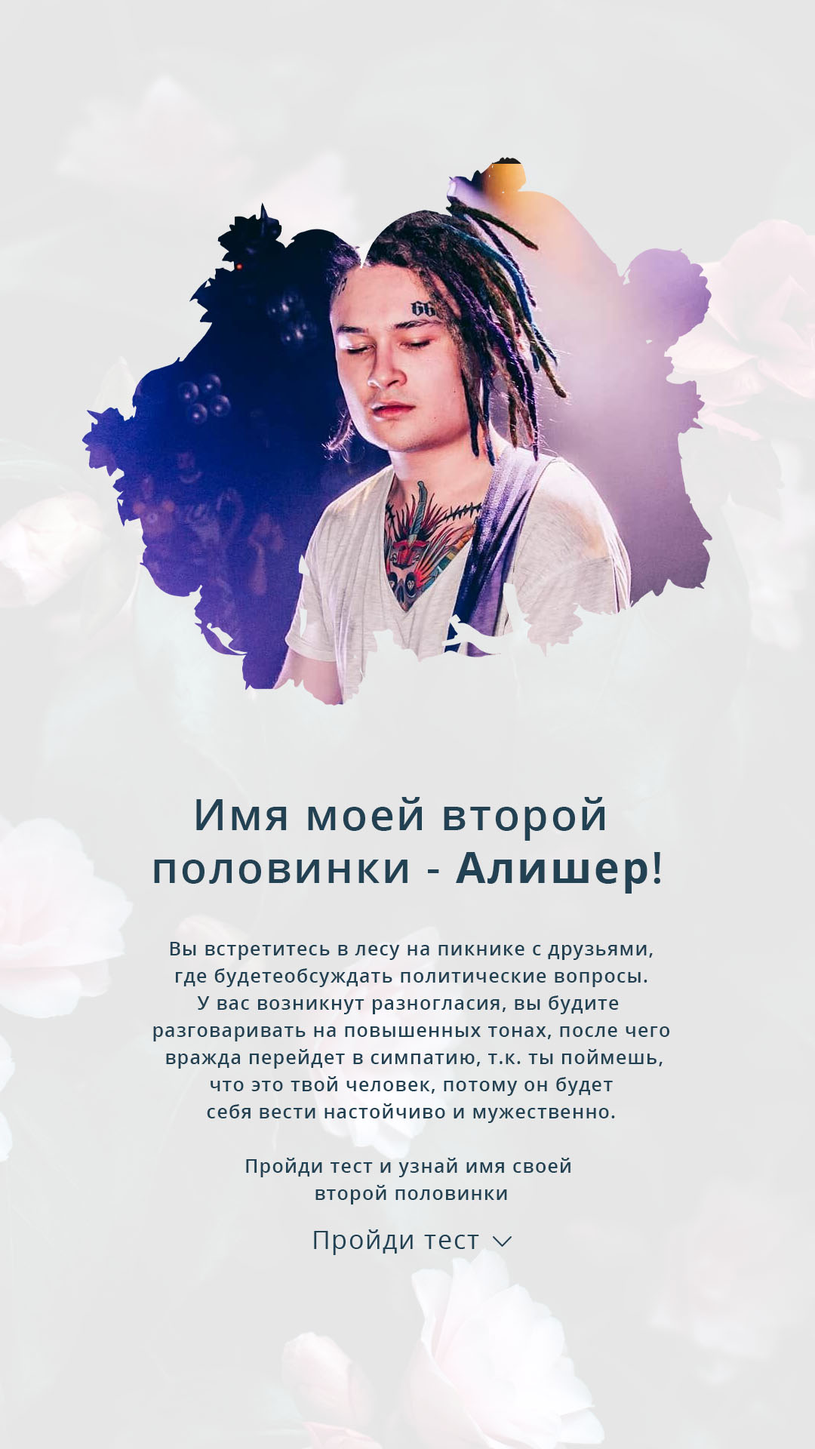
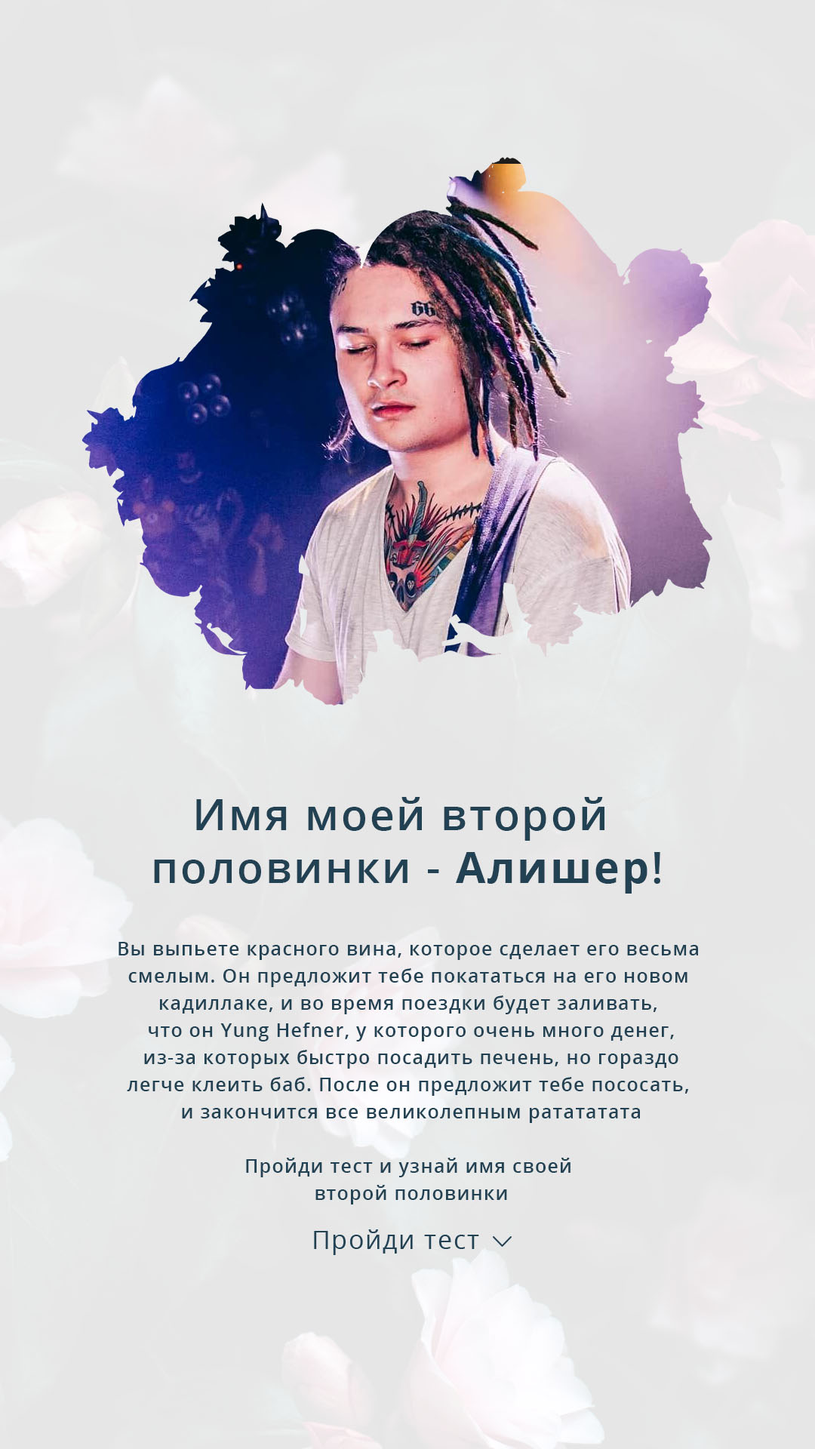
Updates

Changed region(s): [[0.1528, 0.625, 0.8556, 0.7812]]

diff --git a/static/js/main.f251b3ba.chunk.js b/static/js/main.f251b3ba.chunk.js
@@ -1,0 +1,2 @@
+(this["webpackJsonpmini-app"]=this["webpackJsonpmini-app"]||[]).push([[0],{108:function(e,t,a){e.exports=a.p+"static/media/2.1cb0b479.png"},109:function(e,t,a){e.exports=a.p+"static/media/3.79a9798c.png"},110:function(e,t,a){e.exports=a.p+"static/media/4.f338b19d.png"},111:function(e,t,a){e.exports=a.p+"static/media/5.77c213ab.png"},112:function(e,t,a){e.exports=a.p+"static/media/7.88c06081.png"},113:function(e,t,a){e.exports=a.p+"static/media/8.d15ea79e.png"},114:function(e,t,a){e.exports=a.p+"static/media/9.eaa9397a.png"},115:function(e,t,a){e.exports=a.p+"static/media/10.3b675a64.png"},116:function(e,t,a){e.exports=a.p+"static/media/1.b21a2ad8.png"},117:function(e,t,a){e.exports=a.p+"static/media/2.a05df0da.png"},118:function(e,t,a){e.exports=a.p+"static/media/3.ac7e4885.png"},119:function(e,t,a){e.exports=a.p+"static/media/4.008d50be.png"},120:function(e,t,a){e.exports=a.p+"static/media/5.93e093c6.png"},121:function(e,t,a){e.exports=a.p+"static/media/6.961bd0a5.png"},122:function(e,t,a){e.exports=a.p+"static/media/7.35e4d8bc.png"},123:function(e,t,a){e.exports=a.p+"static/media/8.e44cd32c.png"},124:function(e,t,a){e.exports=a.p+"static/media/9.ad8ff529.png"},125:function(e,t,a){e.exports=a.p+"static/media/10.704f9750.png"},126:function(e,t,a){e.exports=a.p+"static/media/11.1f82610f.png"},127:function(e,t,a){e.exports=a.p+"static/media/12.f4ac77f5.png"},128:function(e,t,a){e.exports=a.p+"static/media/13.ce20b29d.png"},129:function(e,t,a){e.exports=a.p+"static/media/14.f66d5e0e.png"},130:function(e,t,a){e.exports=a.p+"static/media/15.95fd2ea9.png"},131:function(e,t,a){e.exports=a.p+"static/media/start.94aeea7c.png"},213:function(e,t,a){e.exports=a(312)},291:function(e,t,a){},304:function(e,t,a){e.exports=a.p+"static/media/6.a72db5b7.png"},312:function(e,t,a){"use strict";a.r(t);a(214),a(240),a(242),a(243),a(245),a(246),a(247),a(248),a(249),a(250),a(251),a(252),a(254),a(255),a(256),a(257),a(258),a(259),a(260),a(261),a(262),a(263),a(265),a(266),a(267),a(268),a(269),a(270),a(271),a(272),a(273),a(274),a(275),a(276),a(277),a(278),a(279),a(280),a(281),a(282);var n=a(0),r=a.n(n),i=a(102),c=a.n(i),o=a(48),s=a(21),l=a.n(s),m=a(134),u=a.n(m),p=(a(290),a(291),a(33)),d=a.n(p),f=a(47),g=a(103),h=a(104),x=a(136),v=a(135),y=a(36),b=a(68),_=a.n(b),E=a(108),k=a.n(E),w=a(109),S=a.n(w),C=a(110),A=a.n(C),N=a(111),O=a.n(N),z=(a(304),a(112)),j=a.n(z),T=a(113),I=a.n(T),R=a(114),F=a.n(R),G=a(115),M=a.n(G),P=a(116),V=a.n(P),D=a(117),K=a.n(D),q=a(118),W=a.n(q),B=a(119),U=a.n(B),J=a(120),L=a.n(J),Y=a(121),H=a.n(Y),Q=a(122),Z=a.n(Q),X=a(123),$=a.n(X),ee=a(124),te=a.n(ee),ae=a(125),ne=a.n(ae),re=a(126),ie=a.n(re),ce=a(127),oe=a.n(ce),se=a(128),le=a.n(se),me=a(129),ue=a.n(me),pe=a(130),de=a.n(pe),fe=a(69),ge=a.n(fe),he=a(131),xe=a.n(he),ve=a(15),ye=a.n(ve),be=a(37),_e=a.n(be),Ee=a(70),ke=a.n(Ee),we=a(41),Se=a.n(we);Object.defineProperty(Object.prototype,"randElement",{value:function(){return this[Math.floor(Math.random()*this.length)]}});var Ce=function(e){Object(x.a)(a,e);var t=Object(v.a)(a);function a(e){var n;return Object(g.a)(this,a),(n=t.call(this,e)).state={step:0,gender:0,answer:0,selected_charaster:0,next_button_active:0,share_in_story:0},n.result_charasters={1:{image:V.a,name:"\u0414\u043e\u0440\u0430",desc:"\u041e\u043d\u0430 \u043f\u043e\u0448\u043b\u0435\u0442 \u0442\u0435\u0431\u044f \u043d\u0430 \u043d\u0435\u0431\u043e \u0437\u0430 \u0437\u0432\u0435\u0437\u0434\u043e\u0447\u043a\u043e\u0439, \u043f\u043e\u0442\u043e\u043c\u0443 \u0447\u0442\u043e \u0442\u044b \u0437\u0430\u0434\u043e\u043b\u0431\u0430\u043b \u0435\u0435 \u0438\u0433\u043d\u043e\u0440\u0438\u0442\u044c, \u0442\u0430\u043a \u043a\u0430\u043a \u0440\u0430\u0437\u0432\u043b\u0435\u043a\u0430\u0435\u0448\u044c\u0441\u044f \u0441 \u0435\u0435 \u043c\u043b\u0430\u0434\u0448\u0435\u0439 \u0441\u0435\u0441\u0442\u0440\u043e\u0439. (\u0410 \u043d\u0435\u0442, \u0442\u0432\u043e\u044f \u043f\u043e\u043b\u043e\u0432\u0438\u043d\u043a\u0430 \u0441\u0435\u0441\u0442\u0440\u0430 \u0414\u043e\u0440\u044b)."},2:{image:K.a,name:"\u041b\u0435\u0440\u0430",desc:"\u0423 \u0432\u0430\u0441 \u0441\u043b\u0443\u0447\u0438\u0442\u0441\u044f \u0431\u0435\u0437\u043e\u043f\u0430\u0441\u043d\u044b\u0439 \u0441\u0435\u043a\u0441, \u043d\u043e \u043a\u0430\u043f\u0435\u043b\u044c\u043a\u0430 \u0434\u043e\u0439\u0434\u0435\u0442 \u0434\u043e \u043f\u0440\u0435\u0434\u0435\u043b\u0430. \u041d\u0438 \u043e \u0447\u0435\u043c \u043d\u0435 \u0436\u0430\u043b\u0435\u0439 \u0438 \u043b\u044e\u0431\u0438 \u043f\u0440\u043e\u0441\u0442\u043e \u0442\u0430\u043a."},3:{image:W.a,name:"\u041f\u043e\u043b\u0438\u043d\u0430",desc:"\u041e\u043d\u0430 \u0431\u0443\u0434\u0435\u0442 \u0432\u0435\u0440\u0438\u0442\u044c, \u0447\u0442\u043e \u0433\u0434\u0435-\u0442\u043e \u0436\u0438\u0432\u0435\u0442 \u043b\u044e\u0431\u043e\u0432\u044c, \u0432\u0435\u0434\u044c \u043d\u0430\u0441 \u043c\u0438\u043b\u043b\u0438\u043e\u043d\u044b. \u041e\u043d\u0430 \u0443\u0432\u0438\u0434\u0438\u0442 \u043d\u0435\u0431\u043e \u0432 \u0442\u0432\u043e\u0438\u0445 \u0433\u043b\u0430\u0437\u0430\u0445, \u043d\u043e \u0442\u044b \u043d\u0435 \u0437\u0430\u0445\u043e\u0447\u0435\u0448\u044c \u043f\u0440\u044b\u0433\u0430\u0442\u044c \u0440\u0430\u0434\u0438 \u043d\u0435\u0435 \u0432\u044b\u0448\u0435 \u0433\u043e\u043b\u043e\u0432\u044b \u0438 \u043e\u043d\u0430 \u043d\u0435 \u0441\u0442\u0430\u043d\u0435\u0442 \u0442\u0435\u0431\u044f \u0431\u043e\u043b\u044c\u0448\u0435 \u0436\u0434\u0430\u0442\u044c. \u041e\u043d\u0430 \u043f\u043e\u0439\u043c\u0435\u0442, \u0447\u0442\u043e \u0432\u044b \u043d\u0435 \u043f\u0430\u0440\u0430, \u0432\u0435\u0434\u044c \u0432\u043e \u0432\u0441\u0435\u0445 \u0442\u0432\u043e\u0438\u0445 \u0441\u043b\u043e\u0432\u0430\u0445 \u0432\u043e\u0434\u0430."},4:{image:U.a,name:"\u041d\u0430\u0434\u0435\u0436\u0434\u0430",desc:"\u041f\u043e\u0441\u0442\u0443\u0447\u0438\u0442\u0441\u044f \u0432 \u0434\u043e\u043c \u043d\u043e\u0447\u044c \u043d\u0435\u0437\u0432\u0430\u043d\u0430\u044f, \u0432\u043e\u0442 \u043e\u043d\u0430 \u043b\u044e\u0431\u043e\u0432\u044c \u043e\u043a\u0430\u044f\u043d\u043d\u0430\u044f. \u0423 \u0446\u0435\u0440\u043a\u0432\u0438 \u0431\u0443\u0434\u0435\u0442 \u0441\u0442\u043e\u044f\u0442\u044c \u043a\u0430\u0440\u0435\u0442\u0430 \u0438 \u0442\u044b \u0443\u0432\u0438\u0434\u0438\u0448\u044c, \u043a\u0430\u043a \u043e\u043d\u0430 \u0431\u0443\u0434\u0435\u0442 \u0441\u043f\u0443\u0441\u043a\u0430\u0442\u044c \u0441 \u0433\u043e\u0440\u043e\u0447\u043a\u0438 \u043a\u0443\u0431\u0430\u0440\u0435\u043c, \u043f\u043e\u0442\u043e\u043c\u0443 \u0447\u0442\u043e \u043d\u0430\u043f\u0438\u043b\u0430\u0441\u044f \u043f\u044c\u044f\u043d\u0430 \u0438 \u043d\u0435 \u043c\u043e\u0436\u0435\u0442 \u0434\u043e\u0439\u0442\u0438 \u0434\u043e \u0434\u043e\u043c\u0430. \u0422\u044b \u0437\u0430\u0431\u0435\u0440\u0435\u0448\u044c \u0435\u0435 \u043a \u0441\u0435\u0431\u0435 \u043d\u0430 \u0431\u0435\u043b\u043e\u043c \u043a\u043e\u043d\u0435 \u0438 \u043d\u0430\u043a\u0443\u0440\u0438\u0448\u044c \u0434\u0443\u0440\u043c\u0430\u043d-\u0442\u0440\u0430\u0432\u043e\u0439."},5:{image:L.a,name:"\u041a\u043b\u0430\u0432\u0430",desc:"\u0422\u044b \u0441\u0442\u0430\u043d\u0435\u0448\u044c \u0434\u043b\u044f \u043d\u0435\u0435 \u043a\u0440\u0430\u0448\u0435\u043c \u0438 \u0437\u0430\u0435\u0439, \u043d\u043e \u0442\u0435\u0431\u0435 \u043f\u043e\u0445, \u0432\u0435\u0434\u044c \u0447\u0435\u043c \u043c\u0435\u043d\u044c\u0448\u0435 \u0431\u0430\u0431\u0443 \u043b\u044e\u0431\u0438\u0448\u044c, \u0431\u043e\u043b\u044c\u0448\u0435 \u043d\u0440\u0430\u0432\u0438\u0448\u044c\u0441\u044f \u0442\u044b \u0435\u0439. \u041e\u043d\u0430 \u0431\u0443\u0434\u0435\u0442 \u0434\u0443\u043c\u0430\u0442\u044c, \u0447\u0442\u043e \u0442\u044b \u0435\u0435 \u043f\u043e\u043b\u043e\u0432\u0438\u043d\u0430, \u043f\u043e\u0441\u043b\u0435 \u0447\u0435\u0433\u043e \u0432\u044b \u043d\u0430\u0433\u0440\u0435\u0448\u0438\u0442\u0435 \u0438 \u043d\u0430\u0447\u043d\u0435\u0442\u0435 \u0432\u0441\u0435 \u0437\u0430\u043d\u043e\u0432\u043e. \u041d\u043e \u043e\u043d\u0430 \u043f\u043e\u0439\u043c\u0435\u0442, \u0447\u0442\u043e \u0432\u043b\u044e\u0431\u0438\u043b\u0430\u0441\u044c \u0432 \u043c\u0443\u0434\u0430\u043a\u0430 \u0438 \u043f\u043e\u043a\u0438\u043d\u0435\u0442 \u0447\u0430\u0442."},6:{image:H.a,name:"\u041b\u0435\u0445\u0430",desc:"\u0421\u0430\u0439\u043e\u043d\u0430\u0440\u0430\u0431\u043e\u0439 \u043f\u043e\u0434\u043a\u0430\u0442\u0438\u0442 \u043a \u0442\u0435\u0431\u0435 \u043d\u0430 \u0441\u0432\u043e\u0435\u043c \u043a\u0430\u0434\u0438\u043b\u0430\u043a\u0435. \u041e\u043d \u0437\u0430\u043b\u0435\u0442\u0438\u0442 \u043a \u0442\u0435\u0431\u0435 \u0434\u043e\u043c\u043e\u0439, \u043f\u043e\u0440\u0432\u0435\u0442 \u043d\u0430 \u0442\u0435\u0431\u0435 \u0434\u0436\u0438\u043d\u0441\u044b, \u043f\u0440\u043e\u043a\u0440\u0443\u0442\u0438\u0442 \u0442\u0435\u0431\u044f \u043d\u0430 360, \u0438 \u0443 \u0432\u0430\u0441 \u0440\u043e\u0434\u0438\u0442\u0441\u044f \u0440\u0435\u0431\u0435\u043d\u043e\u043a, \u0440\u043e\u0436\u0434\u0435\u043d\u043d\u044b\u0439 \u0441\u0438\u044f\u0442\u044c."},7:{image:Z.a,name:"\u0421\u0435\u0440\u0435\u0436\u0430",desc:"\u041f\u043e\u0434 \u0431\u0435\u0440\u0435\u0437\u043e\u0439 \u0432 \u043d\u043e\u0432\u044b\u0439 \u0433\u043e\u0434 \u043e\u043d \u0441\u043f\u0440\u043e\u0441\u0438\u0442 \u0443 \u0442\u0435\u0431\u044f \u0448\u0435\u043f\u043e\u0442\u043e\u043c: *\u0417\u0430\u0447\u0435\u043c \u043f\u0440\u0438\u0434\u0443\u043c\u0430\u043b\u0438 \u043b\u044e\u0431\u043e\u0432\u044c?*. \u0415\u0433\u043e \u0441\u043b\u043e\u0432\u0430 \u043f\u0440\u043e\u043d\u0438\u043a\u043d\u0443\u0442 \u0442\u0435\u0431\u0435 \u0432 \u0441\u0430\u043c\u043e\u0435 \u0441\u0435\u0440\u0434\u0446\u0435, \u0432\u0435\u0434\u044c \u043e\u043d \u043d\u0435 \u0431\u043e\u0438\u0442\u0441\u044f \u043f\u043e\u0441\u0442\u0440\u043e\u0438\u0442\u044c \u0438\u0434\u0435\u0430\u043b\u044c\u043d\u044b\u0439 \u043c\u0438\u0440 \u0441 \u0442\u043e\u0431\u043e\u0439."},8:{image:$.a,name:"\u0413\u0440\u0438\u0433\u043e\u0440\u0438\u0439",desc:"\u0422\u044b \u0441\u0442\u0430\u043d\u0435\u0448\u044c \u0435\u0433\u043e \u0432\u043e\u0434\u043e\u043f\u0430\u0434\u043e\u043c \u043f\u043e\u0441\u043b\u0435 \u0440\u044e\u043c\u043a\u0438 \u043d\u0430 \u0441\u0442\u043e\u043b\u0435. \u041f\u043e\u0441\u043b\u0435 \u0447\u0435\u0433\u043e \u043e\u043d \u0441\u0442\u0430\u043d\u0435\u0442 \u0441\u0430\u043c\u044b\u043c \u0441\u0447\u0430\u0441\u0442\u043b\u0438\u0432\u044b\u043c \u0438 \u043f\u043e\u0439\u043c\u0435\u0442, \u0447\u0442\u043e \u044d\u0442\u043e \u0435\u0433\u043e \u0441\u0430\u043c\u044b\u0439 \u043b\u0443\u0447\u0448\u0438\u0439 \u0434\u0435\u043d\u044c. \u0413\u0440\u0438\u0448\u043a\u0430 \u0441\u043a\u0430\u0436\u0435\u0442 \u0442\u0435\u0431\u0435 \u0441\u043f\u0430\u0441\u0438\u0431\u043e, \u043f\u043e\u0441\u043b\u0435 \u0447\u0435\u0433\u043e \u0443\u0439\u0434\u0435\u0442 \u043a\u0440\u0430\u0441\u0438\u0432\u043e \u043f\u043e \u0430\u043d\u0433\u043b\u0438\u0439\u0441\u043a\u0438\u0439 \u0432 \u041b\u043e\u043d\u0434\u043e\u043d. \u0422\u044b \u043f\u043e\u0434\u043d\u0438\u043c\u0435\u0448\u044c \u0440\u0443\u043a\u0438 \u0438 \u043f\u043e\u0439\u043c\u0435\u0448\u044c \u0447\u0442\u043e \u043d\u0430\u0442\u0432\u043e\u0440\u0438\u043b\u0430."},9:{image:te.a,name:"\u0416\u0435\u043d\u044f",desc:"\u0412\u044b \u0431\u0443\u0434\u0435\u0442\u0435 \u0434\u0440\u0443\u0437\u044c\u044f\u043c\u0438, \u043d\u043e \u043f\u043e\u0441\u043b\u0435 \u0442\u043e\u0433\u043e \u043a\u0430\u043a \u043f\u043e\u043a\u0443\u0440\u0438\u0442\u0435, \u0442\u044b \u043f\u043e\u0439\u043c\u0435\u0448\u044c, \u0447\u0442\u043e \u043e\u043d \u0434\u043b\u044f \u0442\u0435\u0431\u044f \u0441\u0430\u043c\u044b\u0439 \u0434\u043e\u0440\u043e\u0433\u043e\u0439 \u0447\u0435\u043b\u043e\u0432\u0435\u043a \u0438 \u0442\u044b \u043b\u044e\u0431\u0438\u0448\u044c \u0435\u0433\u043e. \u0412\u0435\u0434\u044c \u043a\u043e\u043c\u0443 \u0442\u044b \u0437\u0432\u043e\u043d\u0438\u0448\u044c, \u043a\u043e\u0433\u0434\u0430 \u0442\u044b \u0432 \u0433\u043e\u0432\u043d\u043e?"},10:{image:ne.a,name:"\u041c\u0430\u043a\u0441",desc:"\u0422\u044b \u0441\u0442\u0430\u043d\u0435\u0448\u044c \u0435\u0433\u043e \u043c\u0430\u043b\u043e\u043b\u0435\u0442\u043a\u043e\u0439 \u0438 \u043f\u043e\u0439\u0434\u0435\u0448\u044c \u043d\u0430 \u0448\u0430\u043d\u0442\u0430\u0436, \u043f\u043e\u0442\u043e\u043c\u0443 \u0447\u0442\u043e \u0435\u0441\u0442\u044c \u0434\u0432\u0430 \u0442\u0438\u043f\u0430 \u043b\u044e\u0434\u0435\u0439. \u041e\u043d \u0443\u0439\u0434\u0435\u0442 \u043e\u0442 \u0441\u0432\u043e\u0435\u0439 \u0436\u0435\u043d\u044b \u0438 \u0432\u044b \u0431\u0443\u0434\u0435\u0442\u0435 \u043b\u043e\u0432\u0438\u0442\u044c \u044d\u043d\u0434\u043e\u0440\u0444\u0438\u043d\u044b, \u043f\u043e\u0441\u043b\u0435 \u0447\u0435\u0433\u043e \u0443\u0439\u0434\u0435\u0442\u0435 \u0432 \u043c\u0430\u043b\u0438\u043d\u043e\u0432\u044b\u0439 \u0437\u0430\u043a\u0430\u0437."},11:{image:ie.a,name:"\u0414\u043c\u0438\u0442\u0440\u0438\u0439",desc:"\u041e\u043d \u0431\u0443\u0434\u0435\u0442 \u0432\u044b\u0433\u043b\u044f\u0434\u0435\u0442\u044c \u043d\u043e\u0447\u043d\u044b\u043c \u0445\u0443\u043b\u0438\u0433\u0430\u043d\u043e\u043c, \u0438 \u0442\u044b \u0431\u0443\u0434\u0435\u0448\u044c \u0434\u043b\u044f \u043d\u0435\u0433\u043e \u043d\u043e\u043c\u0435\u0440\u043e\u043c \u043e\u0434\u0438\u043d. \u0423 \u0432\u0430\u0441 \u0441\u043b\u0443\u0447\u0438\u0442\u0441\u044f \u043b\u044e\u0431\u043e\u0444\u044c-\u0441\u0443\u043a\u0430. \u041e\u043d \u043f\u043e\u043f\u0440\u043e\u0441\u0438\u0442 \u0442\u0435\u0431\u044f \u043d\u0435 \u043c\u043e\u043b\u0447\u0430\u0442\u044c \u0438 \u0432 \u043a\u043e\u043d\u0446\u0435 \u0434\u043e\u0431\u0430\u0432\u0438\u0442 *\u0431\u0435\u043b\u0438\u0432\u0435*. \u0422\u044b \u043d\u0430\u0432\u0441\u0435\u0433\u0434\u0430 \u043e\u0441\u0442\u0430\u043d\u0435\u0448\u044c\u0441\u044f \u0432 \u0435\u0433\u043e \u043f\u0430\u043c\u044f\u0442\u0438."},12:{image:oe.a,name:"\u0412\u0430\u043b\u0435\u0440\u0438\u0439",desc:"\u0415\u0441\u043b\u0438 \u0442\u044b \u0446\u0438\u0433\u0430\u043d\u043a\u0430 \u0421\u0435\u0439\u0440\u0430 \u0438 \u0443 \u0442\u0435\u0431\u044f \u0435\u0441\u0442\u044c \u0442\u0435\u043a\u0438\u043b\u0430-\u043b\u044e\u0431\u043e\u0444\u044c - \u0442\u044b \u0441\u0434\u0435\u043b\u0430\u0435\u0448\u044c \u0441\u0442\u043e \u0448\u0430\u0433\u043e\u0432 \u043d\u0430\u0437\u0430\u0434 \u0442\u0438\u0445\u043e \u043d\u0430 \u043f\u0430\u043b\u044c\u0446\u0430\u0445, \u0438 \u043a\u0440\u0430\u0441\u0438\u0432\u043e \u0432\u043e\u0439\u0434\u0435\u0448\u044c \u0432 \u0435\u0433\u043e \u0433\u0440\u0435\u0448\u043d\u0443\u044e \u0436\u0438\u0437\u043d\u044c."},13:{image:le.a,name:"\u0415\u0433\u043e\u0440\u043a\u0430",desc:"\u0412\u044b \u0432\u0441\u0442\u0440\u0435\u0442\u0438\u0442\u0435\u0441\u044c \u043d\u0430 \u0431\u0435\u0440\u0435\u0433\u0443 \u0438 \u043e\u043d \u043f\u043e\u0439\u043c\u0435\u0442, \u0447\u0442\u043e \u0442\u044b \u0434\u0435\u0432\u043e\u0447\u043a\u0430 \u0441 \u043a\u0430\u0440\u0442\u0438\u043d\u043a\u0438. \u041f\u043e\u0441\u043b\u0435 \u0447\u0435\u0433\u043e \u043e\u043d \u043f\u043e\u0442\u0440\u0430\u0442\u0438\u0442 \u043d\u0430 \u0442\u0435\u0431\u044f \u0441\u0432\u043e\u0439 \u0441\u0430\u043c\u044b\u0439 \u043b\u0443\u0447\u0448\u0438\u0439 \u0434\u0435\u043d\u044c, \u0438 \u043e\u043d \u043f\u043e\u0442\u0440\u0430\u0442\u0438\u0442 \u043d\u0430 \u0442\u0435\u0431\u044f \u0441\u0432\u043e\u044e \u043b\u0443\u0447\u0448\u0443\u044e \u043d\u043e\u0447\u044c, \u043f\u043e\u0442\u0440\u0430\u0442\u0438\u0442 \u0432\u0441\u0435, \u0447\u0442\u043e\u0431\u044b \u0442\u0435\u0431\u044f \u0440\u0430\u0437\u0434\u0435\u0442\u044c..."},14:{image:ue.a,name:"\u0410\u043b\u0438\u0448\u0435\u0440",desc:"\u0412\u044b \u0432\u044b\u043f\u044c\u0435\u0442\u0435 \u043a\u0440\u0430\u0441\u043d\u043e\u0433\u043e \u0432\u0438\u043d\u0430, \u043a\u043e\u0442\u043e\u0440\u043e\u0435 \u0441\u0434\u0435\u043b\u0430\u0435\u0442 \u0435\u0433\u043e \u0432\u0435\u0441\u044c\u043c\u0430 \u0441\u043c\u0435\u043b\u044b\u043c. \u041e\u043d \u043f\u0440\u0435\u0434\u043b\u043e\u0436\u0438\u0442 \u0442\u0435\u0431\u0435 \u043f\u043e\u043a\u0430\u0442\u0430\u0442\u044c\u0441\u044f \u043d\u0430 \u0435\u0433\u043e \u043d\u043e\u0432\u043e\u043c \u043a\u0430\u0434\u0438\u043b\u043b\u0430\u043a\u0435, \u0438 \u0432\u043e \u0432\u0440\u0435\u043c\u044f \u043f\u043e\u0435\u0437\u0434\u043a\u0438 \u0431\u0443\u0434\u0435\u0442 \u0437\u0430\u043b\u0438\u0432\u0430\u0442\u044c, \u0447\u0442\u043e \u043e\u043d Yung Hefner, \u0443 \u043a\u043e\u0442\u043e\u0440\u043e\u0433\u043e \u043e\u0447\u0435\u043d\u044c \u043c\u043d\u043e\u0433\u043e \u0434\u0435\u043d\u0435\u0433, \u0438\u0437-\u0437\u0430 \u043a\u043e\u0442\u043e\u0440\u044b\u0445 \u0431\u044b\u0441\u0442\u0440\u043e \u043f\u043e\u0441\u0430\u0434\u0438\u0442\u044c \u043f\u0435\u0447\u0435\u043d\u044c, \u043d\u043e \u0433\u043e\u0440\u0430\u0437\u0434\u043e \u043b\u0435\u0433\u0447\u0435 \u043a\u043b\u0435\u0438\u0442\u044c \u0431\u0430\u0431. \u041f\u043e\u0441\u043b\u0435 \u043e\u043d \u043f\u0440\u0435\u0434\u043b\u043e\u0436\u0438\u0442 \u0442\u0435\u0431\u0435 \u043f\u043e\u0441\u043e\u0441\u0430\u0442\u044c, \u0438 \u0437\u0430\u043a\u043e\u043d\u0447\u0438\u0442\u0441\u044f \u0432\u0441\u0435 \u0432\u0435\u043b\u0438\u043a\u043e\u043b\u0435\u043f\u043d\u044b\u043c \u0440\u0430\u0442\u0430\u0442\u0430\u0442\u0430\u0442\u0430."},15:{image:de.a,name:"\u0412\u043b\u0430\u0434",desc:"\u0422\u044b \u0431\u044b\u043b\u0430 \u0441\u0430\u043c\u043e\u0439 \u043b\u0443\u0447\u0448\u0435\u0439 \u0434\u0435\u0432\u043e\u0447\u043a\u043e\u0439 \u0432 \u043a\u043b\u0430\u0441\u0441\u0435 \u0438 \u0434\u043b\u044f \u043d\u0435\u0433\u043e \u0441\u0442\u0430\u043b\u0430 \u043f\u0440\u043e\u0441\u0442\u043e \u0441\u0443\u043f\u0435\u0440! \u041d\u043e \u0442\u044b \u043d\u0438\u0447\u0435\u0433\u043e \u043d\u0435 \u043f\u043e\u043d\u044f\u043b\u0430 \u0438 \u043e\u0441\u0442\u0430\u043b\u0430\u0441\u044c \u0435\u0433\u043e \u0434\u0435\u0432\u043e\u0447\u043a\u043e\u0439-\u043c\u0435\u0447\u0442\u043e\u0439."}},n}return Object(h.a)(a,[{key:"setGender",value:function(e){this.setState({gender:e,next_button_active:1});var t={1:[5,4,3,2,1],2:[6,7,8,9,15,14,13,12,11,10]}[e].randElement();this.setState({selected_charaster:t})}},{key:"setAnswer",value:function(e){this.setState({answer:e,next_button_active:1})}},{key:"nextStep",value:function(){var e=Object(f.a)(d.a.mark((function e(){var t,a,n,r;return d.a.wrap((function(e){for(;;)switch(e.prev=e.next){case 0:if(t=this.state,a=t.step,n=t.answer,11!==(r=a+1)||1!==n){e.next=5;break}return e.next=5,l.a.send("VKWebAppAllowMessagesFromGroup",{group_id:197071746,key:1});case 5:12===r?this.props.ShowModal("GROUP_CARD"):this.setState({answer:0,step:r,next_button_active:0});case 6:case"end":return e.stop()}}),e,this)})));return function(){return e.apply(this,arguments)}}()},{key:"restart",value:function(){1===this.state.share_in_story||this.props.ShowModal("STORY_CARD"),this.resetState()}},{key:"resetState",value:function(){this.setState({gender:0,answer:0,step:0,next_button_active:0,share_in_story:0})}},{key:"componentDidUpdate",value:function(){var e=Object(f.a)(d.a.mark((function e(t,a,n){var r,i,c,o;return d.a.wrap((function(e){for(;;)switch(e.prev=e.next){case 0:if(t===this.props){e.next=15;break}if(null===this.props.shareInStory){e.next=9;break}if(1!==this.props.shareInStory){e.next=7;break}return e.next=5,this.share_result(1);case 5:e.next=8;break;case 7:this.resetState();case 8:this.props.setShareInStory(null);case 9:if(null===this.props.followOnPublic){e.next=15;break}if(1!==this.props.followOnPublic){e.next=13;break}return e.next=13,l.a.send("VKWebAppJoinGroup",{group_id:197071746}).then((function(){})).catch((function(){}));case 13:this.setState({answer:0,step:12,next_button_active:0}),this.props.setFollowOnPublic(null);case 15:a!==this.state&&(r=this.state,i=r.step,c=r.selected_charaster,o=this.result_charasters,11===i&&this.setGradient(o[c].color));case 16:case"end":return e.stop()}}),e,this)})));return function(t,a,n){return e.apply(this,arguments)}}()},{key:"componentDidMount",value:function(){l.a.send("VKWebAppInit")}},{key:"hexToRgbA",value:function(e){var t,a=arguments.length>1&&void 0!==arguments[1]?arguments[1]:1;if(/^#([A-Fa-f0-9]{3}){1,2}$/.test(e))return 3===(t=e.substring(1).split("")).length&&(t=[t[0],t[0],t[1],t[1],t[2],t[2]]),"rgba("+[(t="0x"+t.join(""))>>16&255,t>>8&255,255&t].join(",")+","+a+")"}},{key:"setGradient",value:function(e){var t="linear-gradient(to bottom, rgba(9, 9, 121, 0) 0%, "+this.hexToRgbA(e,.6)+" 38%, "+this.hexToRgbA(e)+" 90%)";t="<style>.question_box:after {background-image: "+t+" !important; };</style>",document.getElementById("gradient_style").innerHTML=t}},{key:"changeAge",value:function(e){parseInt(e.target.value)>0?this.setState({next_button_active:1}):this.setState({next_button_active:0})}},{key:"share_result",value:function(){var e=Object(f.a)(d.a.mark((function e(){var t,a=this,n=arguments;return d.a.wrap((function(e){for(;;)switch(e.prev=e.next){case 0:return t=n.length>0&&void 0!==n[0]?n[0]:0,this.props.platform,e.next=4,l.a.send("VKWebAppShowStoryBox",{background_type:"image",url:"".concat(window.location.origin,"/VKMA_Name/results/").concat(this.state.selected_charaster,".jpg"),locked:!0,attachment:{text:"go_to",type:"url",url:"https://vk.com/app7569705"}}).then((function(){t?a.setState({gender:0,answer:0,step:0,next_button_active:0,share_in_story:1}):a.setState({share_in_story:1})})).catch((function(){t&&a.resetState()}));case 4:case"end":return e.stop()}}),e,this)})));return function(){return e.apply(this,arguments)}}()},{key:"render",value:function(){var e=this,t=this.state,a=t.gender,n=t.step,i=t.answer,c=t.selected_charaster,o=t.next_button_active,s=this.result_charasters,l=r.a.createElement("div",{className:"div-answer-buttons"},r.a.createElement(ye.a,{style:{width:"100%",backgroundColor:"#224254",color:"#ffffff"},size:"l",mode:1===i?"overlay_primary":"overlay_secondary",onClick:function(){return e.setAnswer(1)}},"\u0414\u0430"),r.a.createElement(ye.a,{style:{width:"100%",marginTop:"1rem",backgroundColor:"#224254",color:"#ffffff"},size:"l",mode:2===i?"overlay_primary":"overlay_secondary",onClick:function(){return e.setAnswer(2)}},"\u041d\u0435\u0442")),m={1:{image:_.a,text:"\u0422\u044b \u043f\u0430\u0440\u0435\u043d\u044c \u0438\u043b\u0438 \u0434\u0435\u0432\u0443\u0448\u043a\u0430?",content:r.a.createElement("div",{className:"div-answer-buttons"},r.a.createElement(ye.a,{style:{width:"100%",backgroundColor:"#224254",color:"#ffffff"},size:"l",mode:1===a?"overlay_outline":"overlay_primary",onClick:function(){return e.setGender(1)}},"\u041f\u0430\u0440\u0435\u043d\u044c"),r.a.createElement(ye.a,{style:{width:"100%",marginTop:"1rem",backgroundColor:"#224254",color:"#ffffff"},size:"l",mode:2===a?"overlay_tertiary":"overlay_primary",onClick:function(){return e.setGender(2)}},"\u0414\u0435\u0432\u0443\u0448\u043a\u0430"))},2:{image:k.a,text:"\u0421\u043a\u043e\u043b\u044c\u043a\u043e \u0442\u0435\u0431\u0435 \u043b\u0435\u0442?",content:r.a.createElement(r.a.Fragment,null,r.a.createElement(Se.a,{type:"number",onChange:function(t){return e.changeAge(t)}}))},3:{image:S.a,text:"\u041a\u0442\u043e \u0442\u044b \u043f\u043e \u0433\u043e\u0440\u043e\u0441\u043a\u043e\u043f\u0443?",content:r.a.createElement(r.a.Fragment,null,r.a.createElement(Se.a,{type:"text",onChange:function(){return e.setAnswer()}}))},4:{image:A.a,text:"\u0421\u043a\u043e\u043b\u044c\u043a\u043e \u0442\u044b \u0432\u0435\u0441\u0438\u0448\u044c?",content:r.a.createElement(r.a.Fragment,null,r.a.createElement(Se.a,{type:"number",onChange:function(t){return e.changeAge(t)}}))},5:{image:O.a,text:"\u0422\u044b \u0431\u043e\u0438\u0448\u044c\u0441\u044f \u043f\u0440\u0438\u0437\u0440\u0430\u043a\u043e\u0432?",content:l},6:{image:_.a,text:"\u0422\u044b \u043f\u0440\u0435\u0434\u043f\u043e\u0447\u0438\u0442\u0430\u0435\u0448\u044c \u0444\u0430\u0441\u0442\u0444\u0443\u0434 \u0438\u043b\u0438 \u0434\u043e\u043c\u0430\u0448\u043d\u044e\u044e \u0435\u0434\u0443?",content:r.a.createElement("div",{className:"div-answer-buttons"},r.a.createElement(ye.a,{style:{width:"100%",backgroundColor:"#224254",color:"#ffffff"},size:"l",mode:1===i?"overlay_primary":"overlay_secondary",onClick:function(){return e.setAnswer(1)}},"\u0424\u0430\u0441\u0442\u0432\u0443\u0434"),r.a.createElement(ye.a,{style:{width:"100%",marginTop:"1rem",backgroundColor:"#224254",color:"#ffffff"},size:"l",mode:2===i?"overlay_primary":"overlay_secondary",onClick:function(){return e.setAnswer(2)}},"\u0414\u043e\u043c\u0430\u0448\u043d\u044e\u044e \u0435\u0434\u0443"))},7:{image:j.a,text:"\u041a\u0430\u043a\u043e\u0439 \u0442\u0432\u043e\u0439 \u043b\u044e\u0431\u0438\u043c\u044b\u0439 \u0444\u0440\u0443\u043a\u0442?",content:r.a.createElement(r.a.Fragment,null,r.a.createElement(Se.a,{type:"text",onChange:function(){return e.setAnswer()}}))},8:{image:I.a,text:"\u0412\u0435\u0440\u0438\u0448\u044c \u0432 \u043b\u044e\u0431\u043e\u0432\u044c \u0441 \u043f\u0435\u0440\u0432\u043e\u0433\u043e \u0432\u0437\u0433\u043b\u044f\u0434\u0430?",content:l},9:{image:F.a,text:"\u041c\u043e\u0436\u043d\u043e \u043b\u0438 \u043f\u0440\u043e\u0441\u0442\u0438\u0442\u044c \u0438\u0437\u043c\u0435\u043d\u0443?",content:l},10:{image:M.a,text:"\u0422\u044b \u0431\u044b \u0441\u043c\u043e\u0433 \u043f\u043e\u043b\u044e\u0431\u0438\u0442\u044c \u0447\u0435\u043b\u043e\u0432\u0435\u043a\u0430 \u0434\u0440\u0443\u0433\u043e\u0439 \u0440\u0430\u0441\u044b?",content:l},11:{}};return r.a.createElement("div",{className:"base_container"},r.a.createElement("div",{id:"gradient_style"}),0===n&&r.a.createElement("img",{className:"result-container",src:xe.a,alt:""}),0===n&&r.a.createElement("div",{className:"container"},r.a.createElement("link",{rel:"preload",href:m[1].image,as:"image"}),r.a.createElement("link",{rel:"preload",href:ge.a,as:"image"}),r.a.createElement("div",{className:"text-center p-t-2",style:{fontSize:"25px",color:"#224254"}},"\u0418\u043c\u044f \u0432\u0442\u043e\u0440\u043e\u0439 \u043f\u043e\u043b\u043e\u0432\u0438\u043d\u043a\u0438"),r.a.createElement("div",{className:"text-center p-t-2",style:{fontSize:"20px",color:"#224254"}},"\u041f\u0440\u043e\u0439\u0434\u0438 \u0442\u0435\u0441\u0442 \u0438 \u0443\u0437\u043d\u0430\u0439 \u0438\u043c\u044f \u0441\u0432\u043e\u0435\u0439 \u0432\u0442\u043e\u0440\u043e\u0439 \u043f\u043e\u043b\u043e\u0432\u0438\u043d\u043a\u0438!"),r.a.createElement("div",{className:"text-center p-t-2",style:{fontSize:"16px",color:"#fc2646"}},"@diveintothenight"),r.a.createElement(ke.a,{className:"text-center p-t-2"},r.a.createElement(ye.a,{style:{backgroundColor:"#224254",color:"#ffffff"},after:r.a.createElement(_e.a,null),mode:"overlay_primary",size:"l",onClick:function(){return e.nextStep()}},"\u041f\u0440\u043e\u0439\u0442\u0438 \u0442\u0435\u0441\u0442"))),0!==n&&n<11&&r.a.createElement("div",{className:"container"},r.a.createElement("link",{rel:"preload",href:m[n+1].image,as:"image"}),r.a.createElement("div",{className:"question_box",style:{backgroundColor:m[n].box_color}},r.a.createElement("img",{src:m[n].image,alt:""}),r.a.createElement("div",{style:10===n?{marginTop:"-20px"}:{}},r.a.createElement("div",{className:"question_text text-center"},m[n].text),r.a.createElement("div",{className:"group_name text-center"},"@diveintothenight"))),r.a.createElement("div",{style:{marginTop:"1rem"}},m[n].content),r.a.createElement("div",{className:"div-center"},r.a.createElement(ye.a,{style:{marginTop:"1rem",backgroundColor:"#224254",color:"#ffffff"},after:r.a.createElement(_e.a,null),size:"l",onClick:function(){e.nextStep(),e.setGradient(m[n+1].color)},disabled:!o},"\u0414\u0430\u043b\u0435\u0435"))),11===n&&r.a.createElement("div",{className:"result-container"},r.a.createElement("link",{rel:"preload",href:s[c].image,as:"image"}),r.a.createElement("div",{className:"text-center p-t-2",style:{fontSize:"25px",color:"#224254"}},"\u0422\u0435\u0441\u0442 \u043f\u0440\u043e\u0439\u0434\u0435\u043d!"),r.a.createElement(ke.a,{className:"text-center p-t-2"},r.a.createElement(ye.a,{style:{backgroundColor:"#224254",color:"#ffffff"},after:r.a.createElement(_e.a,null),mode:"overlay_primary",size:"l",onClick:function(){return e.nextStep()}},"\u0423\u0437\u043d\u0430\u0442\u044c \u0440\u0435\u0437\u0443\u043b\u044c\u0442\u0430\u0442")),r.a.createElement("div",{className:"text-center p-t-2",style:{fontSize:"16px",color:"#fc2646"}},"@diveintothenight")),11===n&&r.a.createElement("img",{className:"image-result",src:ge.a,alt:""}),12===n&&r.a.createElement("div",{className:"result-container result-charaster-container"},r.a.createElement("div",{className:"question_box",style:{backgroundColor:s[c].box_color}},r.a.createElement("img",{src:s[c].image,alt:""}),r.a.createElement("div",{className:"question_text text-center"},"\u0418\u043c\u044f \u0442\u0432\u043e\u0435\u0439 \u043f\u043e\u043b\u043e\u0432\u0438\u043d\u043a\u0438 ",s[c].name,"!"),r.a.createElement("div",{className:"group_name text-center"},"\u0438\u0442\u043e\u0433")),r.a.createElement("div",{style:{marginTop:"1rem",textAlign:"center"}},s[c].desc),r.a.createElement("div",null,r.a.createElement(ye.a,{style:{marginTop:"1rem",width:"100%",backgroundColor:"#224254",color:"#ffffff"},after:r.a.createElement(_e.a,null),size:"l",mode:"overlay_primary",onClick:function(){return e.share_result()}},"\u041f\u043e\u0434\u0435\u043b\u0438\u0442\u044c\u0441\u044f \u0432 \u0438\u0441\u0442\u043e\u0440\u0438\u0438"),r.a.createElement(ye.a,{style:{marginTop:"1rem",width:"100%",marginBottom:"1rem`",backgroundColor:"#224254",color:"#ffffff"},after:r.a.createElement(_e.a,null),size:"l",mode:"overlay_primary",onClick:function(){return e.restart()}},"\u041f\u043e\u0432\u0442\u043e\u0440\u0438\u0442\u044c"))))}}]),a}(r.a.Component),Ae=Object(y.c)(Ce),Ne=a(132),Oe=a.n(Ne),ze=a(133),je=a.n(ze),Te=function(){var e=Object(n.useState)(null),t=Object(o.a)(e,2),a=t[0],i=t[1],c=Object(n.useState)(null),s=Object(o.a)(c,2),m=s[0],p=s[1],d=Object(n.useState)(null),f=Object(o.a)(d,2),g=f[0],h=f[1];Object(n.useEffect)((function(){l.a.subscribe((function(e){var t=e.detail,a=t.type,n=t.data;if("VKWebAppUpdateConfig"===a){var r=document.createAttribute("scheme");r.value=n.scheme?n.scheme:"client_light",document.body.attributes.setNamedItem(r)}}))}),[]);var x=function(e){i(null),p(e)},v=function(e){i(null),h(e)},b=r.a.createElement(y.b,{activeModal:a,onClose:function(){i(null)}},r.a.createElement(y.a,{id:"STORY_CARD",onClose:function(){return i(null)},icon:r.a.createElement(Oe.a,{width:56,height:56}),header:"\u041f\u043e\u0434\u0435\u043b\u0438\u0442\u044c\u0441\u044f \u0440\u0435\u0437\u0443\u043b\u044c\u0442\u0430\u0442\u043e\u043c \u0432 \u0438\u0441\u0442\u043e\u0440\u0438\u0438?",actionsLayout:"vertical",actions:[{size:"xl",title:"\u0414\u0430",mode:"primary",action:function(){return x(1)}},{size:"xl",title:"\u041d\u0435\u0442",mode:"tertiary",action:function(){return x(0)}}]}),r.a.createElement(y.a,{id:"GROUP_CARD",onClose:function(){return i(null)},icon:r.a.createElement(je.a,{mode:"default",src:"https://sun9-51.userapi.com/impg/zTQtQdB3mOVwoAz8f_r03mZxZtgUEKWTf0Dgdw/NVFe60-Xd8I.jpg?size=50x0&quality=88&crop=185,471,270,270&sign=6bb9e741c5c73f89856396120079c556&ava=1",size:72}),header:"\u042f \u043d\u044b\u0440\u044f\u044e \u0432 \u043d\u043e\u0447\u044c",actionsLayout:"vertical",caption:"\u041f\u043e\u0434\u043f\u0438\u0441\u0430\u0442\u044c\u0441\u044f \u043d\u0430 \u0441\u043e\u043e\u0431\u0449\u0435\u0441\u0442\u0432\u043e?",actions:[{size:"xl",title:"\u0414\u0430",mode:"primary",action:function(){return v(1)}},{size:"xl",title:"\u041d\u0435\u0442",mode:"tertiary",action:function(){return v(0)}}]}));return r.a.createElement(u.a,{activePanel:"home",modal:b},r.a.createElement(Ae,{id:"home",ShowModal:function(e){i(e)},shareInStory:m,followOnPublic:g,setShareInStory:p,setFollowOnPublic:h}))};c.a.render(r.a.createElement(r.a.Fragment,null,r.a.createElement("link",{rel:"preload",as:"image"}),r.a.createElement(Te,null)),document.getElementById("root"))},68:function(e,t,a){e.exports=a.p+"static/media/1.e5cc508d.png"},69:function(e,t,a){e.exports=a.p+"static/media/result.d1fd3ff8.png"}},[[213,1,2]]]);
+//# sourceMappingURL=main.f251b3ba.chunk.js.map

diff --git a/index.html b/index.html
@@ -1,1 +1,1 @@
-<!doctype html><html lang="en"><head><meta charset="utf-8"><meta name="viewport" content="width=device-width,initial-scale=1,shrink-to-fit=no,user-scalable=no,viewport-fit=cover"><meta name="theme-color" content="#000000"><meta content="IE=Edge" http-equiv="X-UA-Compatible"><title>VK Mini App Boilerplate</title><link href="/VKMA_Name/static/css/2.1e562f28.chunk.css" rel="stylesheet"><link href="/VKMA_Name/static/css/main.167ce813.chunk.css" rel="stylesheet"></head><body><div id="root"></div><script>!function(e){function r(r){for(var n,i,p=r[0],a=r[1],l=r[2],c=0,s=[];c<p.length;c++)i=p[c],Object.prototype.hasOwnProperty.call(o,i)&&o[i]&&s.push(o[i][0]),o[i]=0;for(n in a)Object.prototype.hasOwnProperty.call(a,n)&&(e[n]=a[n]);for(f&&f(r);s.length;)s.shift()();return u.push.apply(u,l||[]),t()}function t(){for(var e,r=0;r<u.length;r++){for(var t=u[r],n=!0,p=1;p<t.length;p++){var a=t[p];0!==o[a]&&(n=!1)}n&&(u.splice(r--,1),e=i(i.s=t[0]))}return e}var n={},o={1:0},u=[];function i(r){if(n[r])return n[r].exports;var t=n[r]={i:r,l:!1,exports:{}};return e[r].call(t.exports,t,t.exports,i),t.l=!0,t.exports}i.m=e,i.c=n,i.d=function(e,r,t){i.o(e,r)||Object.defineProperty(e,r,{enumerable:!0,get:t})},i.r=function(e){"undefined"!=typeof Symbol&&Symbol.toStringTag&&Object.defineProperty(e,Symbol.toStringTag,{value:"Module"}),Object.defineProperty(e,"__esModule",{value:!0})},i.t=function(e,r){if(1&r&&(e=i(e)),8&r)return e;if(4&r&&"object"==typeof e&&e&&e.__esModule)return e;var t=Object.create(null);if(i.r(t),Object.defineProperty(t,"default",{enumerable:!0,value:e}),2&r&&"string"!=typeof e)for(var n in e)i.d(t,n,function(r){return e[r]}.bind(null,n));return t},i.n=function(e){var r=e&&e.__esModule?function(){return e.default}:function(){return e};return i.d(r,"a",r),r},i.o=function(e,r){return Object.prototype.hasOwnProperty.call(e,r)},i.p="/VKMA_Name/";var p=this["webpackJsonpmini-app"]=this["webpackJsonpmini-app"]||[],a=p.push.bind(p);p.push=r,p=p.slice();for(var l=0;l<p.length;l++)r(p[l]);var f=a;t()}([])</script><script src="/VKMA_Name/static/js/2.50fe892b.chunk.js"></script><script src="/VKMA_Name/static/js/main.7878ce27.chunk.js"></script></body></html>
+<!doctype html><html lang="en"><head><meta charset="utf-8"><meta name="viewport" content="width=device-width,initial-scale=1,shrink-to-fit=no,user-scalable=no,viewport-fit=cover"><meta name="theme-color" content="#000000"><meta content="IE=Edge" http-equiv="X-UA-Compatible"><title>VK Mini App Boilerplate</title><link href="/VKMA_Name/static/css/2.1e562f28.chunk.css" rel="stylesheet"><link href="/VKMA_Name/static/css/main.167ce813.chunk.css" rel="stylesheet"></head><body><div id="root"></div><script>!function(e){function r(r){for(var n,i,p=r[0],a=r[1],l=r[2],c=0,s=[];c<p.length;c++)i=p[c],Object.prototype.hasOwnProperty.call(o,i)&&o[i]&&s.push(o[i][0]),o[i]=0;for(n in a)Object.prototype.hasOwnProperty.call(a,n)&&(e[n]=a[n]);for(f&&f(r);s.length;)s.shift()();return u.push.apply(u,l||[]),t()}function t(){for(var e,r=0;r<u.length;r++){for(var t=u[r],n=!0,p=1;p<t.length;p++){var a=t[p];0!==o[a]&&(n=!1)}n&&(u.splice(r--,1),e=i(i.s=t[0]))}return e}var n={},o={1:0},u=[];function i(r){if(n[r])return n[r].exports;var t=n[r]={i:r,l:!1,exports:{}};return e[r].call(t.exports,t,t.exports,i),t.l=!0,t.exports}i.m=e,i.c=n,i.d=function(e,r,t){i.o(e,r)||Object.defineProperty(e,r,{enumerable:!0,get:t})},i.r=function(e){"undefined"!=typeof Symbol&&Symbol.toStringTag&&Object.defineProperty(e,Symbol.toStringTag,{value:"Module"}),Object.defineProperty(e,"__esModule",{value:!0})},i.t=function(e,r){if(1&r&&(e=i(e)),8&r)return e;if(4&r&&"object"==typeof e&&e&&e.__esModule)return e;var t=Object.create(null);if(i.r(t),Object.defineProperty(t,"default",{enumerable:!0,value:e}),2&r&&"string"!=typeof e)for(var n in e)i.d(t,n,function(r){return e[r]}.bind(null,n));return t},i.n=function(e){var r=e&&e.__esModule?function(){return e.default}:function(){return e};return i.d(r,"a",r),r},i.o=function(e,r){return Object.prototype.hasOwnProperty.call(e,r)},i.p="/VKMA_Name/";var p=this["webpackJsonpmini-app"]=this["webpackJsonpmini-app"]||[],a=p.push.bind(p);p.push=r,p=p.slice();for(var l=0;l<p.length;l++)r(p[l]);var f=a;t()}([])</script><script src="/VKMA_Name/static/js/2.50fe892b.chunk.js"></script><script src="/VKMA_Name/static/js/main.f251b3ba.chunk.js"></script></body></html>

diff --git a/precache-manifest.b3db6f6f673e9f59902e5d4b5009a963.js b/precache-manifest.b3db6f6f673e9f59902e5d4b5009a963.js
@@ -1,6 +1,6 @@
 self.__precacheManifest = (self.__precacheManifest || []).concat([
   {
-    "revision": "7ca3ba3fe6a5a67761b5289f934757b1",
+    "revision": "b9ce4eabd040246d21d1aea49c3e84b4",
     "url": "/VKMA_Name/index.html"
   },
   {
@@ -8,7 +8,7 @@ self.__precacheManifest = (self.__precacheManifest || []).concat([
     "url": "/VKMA_Name/static/css/2.1e562f28.chunk.css"
   },
   {
-    "revision": "dfe97c8ee01bfaf8ce9c",
+    "revision": "1b114486753d2a356e3d",
     "url": "/VKMA_Name/static/css/main.167ce813.chunk.css"
   },
   {
@@ -20,8 +20,8 @@ self.__precacheManifest = (self.__precacheManifest || []).concat([
     "url": "/VKMA_Name/static/js/2.50fe892b.chunk.js.LICENSE.txt"
   },
   {
-    "revision": "dfe97c8ee01bfaf8ce9c",
-    "url": "/VKMA_Name/static/js/main.7878ce27.chunk.js"
+    "revision": "1b114486753d2a356e3d",
+    "url": "/VKMA_Name/static/js/main.f251b3ba.chunk.js"
   },
   {
     "revision": "bf2ecfc0dcd206fa6f29",

diff --git a/service-worker.js b/service-worker.js
@@ -14,7 +14,7 @@
 importScripts("https://storage.googleapis.com/workbox-cdn/releases/4.3.1/workbox-sw.js");
 
 importScripts(
-  "/VKMA_Name/precache-manifest.80f680b0eba7b664eb2dee901d6dc8a9.js"
+  "/VKMA_Name/precache-manifest.b3db6f6f673e9f59902e5d4b5009a963.js"
 );
 
 self.addEventListener('message', (event) => {
